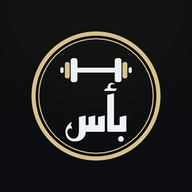
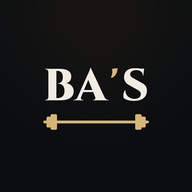
الاسم BA'S بخط Cinzel + أيقونة جديدة بدون عربي (v72)
Claude-Session: https://claude.ai/code/session_01WkkKEZYvaXpMPRjZNHy4t8

Changed region(s): [[0.1562, 0.1562, 0.8438, 0.8438]]

diff --git a/index.html b/index.html
@@ -8,7 +8,7 @@
 <link rel="manifest" href="manifest.webmanifest">
 <link rel="icon" href="icon-192.png">
 <link rel="apple-touch-icon" href="icon-192.png">
-<title>بأس</title>
+<title>BA'S</title>
 <style>
 :root{--scb:#000;--sci:#0c0c0c;--font:system-ui,"Noto Naskh Arabic","Segoe UI",Tahoma,sans-serif;--fnum:inherit;--rad:14px;--radb:11px;--radp:99px;--bw:1px;--sh:none;--ttl:none;--ls:0;--bg:#0e0e0f;--s1:#17171a;--s2:#202024;--bd:#2d2d33;--tx:#ece8e1;--mu:#968f85;--ac:#c38d4f;--ac2:#e2b37c;--ok:#7bb072;--mid:#d6b05a;--bad:#d06c57;--onac:#160e05;--hero:#1d1810;--tx2:#cfc6b8;--ph:#55504a;--okbd:#3b5a37;--okbg:#1c2a1a;--midbd:#5c4d2a;--midbg:#2b2616;--badbg:#2a1a15;--acbd:#4a3a28;--acbg:#33261a;--oktx:#a6d69c;--midtx:#e5c97f;--badtx:#f0b3a3}
 *{box-sizing:border-box;-webkit-tap-highlight-color:transparent}
@@ -422,8 +422,8 @@ html[data-th=granite] #sess .ex.wn{background:linear-gradient(180deg,#221e14,#1a
 #sess .meta2 .inp{min-height:44px}
 #sess .exname{min-height:44px;display:flex;align-items:center}
 #sess .scell .inp::placeholder{color:var(--mu);opacity:.55;font-weight:500;font-size:17px}
-/* v69: الاسم بأس */
-html .brand .wm b.bas,html[data-th] .brand .wm b.bas{font-size:21px;font-weight:800;letter-spacing:0;line-height:1;color:var(--ac2);text-transform:none}
+/* v72: الاسم BA'S بخط Cinzel كمسارات SVG */
+.brand .wmk{height:17px;width:auto;display:block;flex:none;fill:var(--tx)}.brand .wmk .ap{fill:var(--ac2)}
 a.brand,a.brand:visited{color:inherit;text-decoration:none;-webkit-tap-highlight-color:transparent}
 
 /* ===== v57: بساطة — دايرة واحدة وتمرين واحد في الشاشة ===== */
@@ -612,11 +612,11 @@ html[data-th=granite] .pst.full{color:var(--gd)}
 
 <script>
 'use strict';
-const VER='71';
+const VER='72';
 const KEY='gymlog.v1';
 /* ================= اللغة / Language ================= */
 const I18N={
-en:{brand:'<svg class="lg" viewBox="0 0 34 22" fill="none" stroke="currentColor" stroke-width="2" stroke-linecap="round" aria-hidden="true"><path d="M11 11h12"/><rect x="5" y="5" width="4" height="12" rx="1.2" fill="currentColor"/><rect x="25" y="5" width="4" height="12" rx="1.2" fill="currentColor"/><path d="M2 8.5v5M32 8.5v5"/></svg><span class="wm"><b class="bas">بأس</b></span>',title:'بأس',langBtn:'عربي',tabs:['Home','Log','Program','Exercises','File'],update:'Update available — tap',
+en:{brand:'<svg class="lg" viewBox="0 0 34 22" fill="none" stroke="currentColor" stroke-width="2" stroke-linecap="round" aria-hidden="true"><path d="M11 11h12"/><rect x="5" y="5" width="4" height="12" rx="1.2" fill="currentColor"/><rect x="25" y="5" width="4" height="12" rx="1.2" fill="currentColor"/><path d="M2 8.5v5M32 8.5v5"/></svg><svg class="wmk" viewBox="0 0 2423 700" role="img" aria-label="BA S"><path d="M113 627V73Q112 47 94 28Q75 10 49 10H36V0H355Q429 0 489 16Q549 32 585 70Q621 107 621 173Q621 219 602 251Q584 283 556 300Q527 317 494 319Q544 322 584 345Q625 368 650 408Q674 448 674 502Q674 569 636 613Q598 657 531 678Q464 700 376 700H36V690H49Q75 690 94 672Q112 653 113 627ZM290 46V652H320Q362 652 396 636Q430 619 450 583Q470 547 470 489Q470 449 460 419Q449 389 430 369Q410 349 384 340Q357 330 324 330V321Q348 321 368 313Q388 305 402 288Q417 272 425 246Q433 221 433 187Q433 135 418 104Q402 73 374 60Q347 46 311 46Z"/><path d="M1116 -22 1426 638Q1440 664 1461 675Q1485 690 1508 690H1516V700H1167V690H1176Q1196 690 1212 674Q1227 657 1214 627H1215L1171 519H946L900 627H901Q892 647 897 661Q902 675 914 682Q927 690 939 690H948V700H729V690H738Q761 690 786 675Q804 665 817 643L1053 118Q1058 111 1066 92Q1073 74 1082 52Q1092 30 1099 10Q1106 -10 1107 -22ZM1061 249 965 473H1152Z"/><path class="ap" d="M1598 0 1718 -14Q1719 5 1714 36Q1708 67 1694 100Q1679 132 1653 160Q1627 187 1587 200L1572 195Q1588 151 1595 121Q1602 91 1602 64Q1603 36 1598 0Z"/><path d="M2097 -14Q2117 -14 2150 -12Q2184 -10 2220 -7Q2232 -5 2244 -4H2320L2317 17L2302 151H2292Q2292 98 2252 65Q2211 32 2142 32Q2082 32 2046 58Q2011 83 2009 122Q2006 155 2030 176Q2054 197 2088 215L2277 321Q2328 346 2356 391Q2383 436 2379 500Q2374 603 2298 658Q2221 714 2090 714Q2039 714 1995 706Q1951 698 1918 684Q1885 669 1866 651Q1857 628 1858 594Q1860 560 1870 526Q1880 493 1894 472H1903Q1900 524 1924 569Q1947 614 1994 641Q2041 668 2106 668Q2175 667 2210 636Q2246 605 2246 563Q2246 531 2224 506Q2202 480 2153 456L1984 360Q1923 329 1896 278Q1868 226 1875 163Q1880 108 1908 68Q1936 29 1984 8Q2032 -14 2097 -14Z"/></svg>',title:"BA'S",langBtn:'عربي',tabs:['Home','Log','Program','Exercises','File'],update:'Update available — tap',
  next:'Next session',coreL:'Core',start:'Start',draftOpen:'Unsaved session in progress',draftEdit:'Editing a session',resume:'Continue',
  last7:'Last 7 days',sessions:'sessions',lastSess:'Last session',min3:'Weekly minimum is 3 sessions.',
  bkNone:'No backup yet.',bkAgo:n=>`Last backup was ${n} day(s) ago.`,bkWarn:' If Chrome data is cleared, the log goes with it.',bkNowBtn:'Save a backup file now',
@@ -653,7 +653,7 @@ en:{brand:'<svg class="lg" viewBox="0 0 34 22" fill="none" stroke="currentColor"
  aiTarget:'Target',aiWeight:'Weight',aiSets:'Sets',aiForm:'Form',aiClean:'clean (no momentum, full control)',aiNotClean:'not marked clean',
  aiLast:'Previous',aiStatus:'Status',aiNote:'Note',aiNotDone:'Not done',aiCoreTag:'[core]',bw:'bodyweight',
  st2:{q1:'qualified 1 of 2',up:'increase earned',stuck:n=>`${n} sessions at this weight without an increase`},
- mdTitle:'بأس — Backup',mdExported:'Exported',mdSessions:'Sessions',mdProgram:'Program',mdLog:'Log (newest first)',
+ mdTitle:"BA'S — Backup",mdExported:'Exported',mdSessions:'Sessions',mdProgram:'Program',mdLog:'Log (newest first)',
  mdCols:['#','Exercise','Weight','Target','Core','Notes'],mdSCols:['Exercise','Weight','Sets','Clean','Note'],mdData:'Data used by “Restore” in the app — do not edit',yes:'✓',
  csvH:['Date','Cycle','Day','Exercise','Weight','Sets','Set count','Total reps','Clean','Core','Note'],coreLine:'Core',themeT:'Theme',histNote:n=>`${n} past session(s) from your earlier log were added.`,todayL:'Today',otherDay:'Start a different day',newInstead:'Start a new session instead',weekOf:n=>`${n} session(s) in the last 7 days · goal 3`,
  syncT:'Encrypted auto-backup (GitHub)',syncHint:'After every session the whole log is encrypted on this phone and uploaded to your repo. Without the passphrase the file is unreadable.',
@@ -668,7 +668,7 @@ en:{brand:'<svg class="lg" viewBox="0 0 34 22" fill="none" stroke="currentColor"
  syncPub:'Your encrypted backups are going to a PUBLIC repo. Create a private repo, then tap Turn off and enable the backup again with the new repo name.',undoRestore:'Undo last restore',confUndoRestore:'Go back to the data you had before the last restore?',undoDone:'Back to your data before the restore ✓',
  restoredSkip:n=>`Restored ✓ (${n} damaged session(s) skipped)`,syncAfterRestore:'Turn on encrypted auto-backup on this phone with the same repo and passphrase?'
 },
-ar:{brand:'<svg class="lg" viewBox="0 0 34 22" fill="none" stroke="currentColor" stroke-width="2" stroke-linecap="round" aria-hidden="true"><path d="M11 11h12"/><rect x="5" y="5" width="4" height="12" rx="1.2" fill="currentColor"/><rect x="25" y="5" width="4" height="12" rx="1.2" fill="currentColor"/><path d="M2 8.5v5M32 8.5v5"/></svg><span class="wm"><b class="bas">بأس</b></span>',title:'بأس',langBtn:'EN',tabs:['الرئيسية','السجل','البرنامج','التمارين','الملف'],update:'فيه تحديث — اضغط',
+ar:{brand:'<svg class="lg" viewBox="0 0 34 22" fill="none" stroke="currentColor" stroke-width="2" stroke-linecap="round" aria-hidden="true"><path d="M11 11h12"/><rect x="5" y="5" width="4" height="12" rx="1.2" fill="currentColor"/><rect x="25" y="5" width="4" height="12" rx="1.2" fill="currentColor"/><path d="M2 8.5v5M32 8.5v5"/></svg><svg class="wmk" viewBox="0 0 2423 700" role="img" aria-label="BA S"><path d="M113 627V73Q112 47 94 28Q75 10 49 10H36V0H355Q429 0 489 16Q549 32 585 70Q621 107 621 173Q621 219 602 251Q584 283 556 300Q527 317 494 319Q544 322 584 345Q625 368 650 408Q674 448 674 502Q674 569 636 613Q598 657 531 678Q464 700 376 700H36V690H49Q75 690 94 672Q112 653 113 627ZM290 46V652H320Q362 652 396 636Q430 619 450 583Q470 547 470 489Q470 449 460 419Q449 389 430 369Q410 349 384 340Q357 330 324 330V321Q348 321 368 313Q388 305 402 288Q417 272 425 246Q433 221 433 187Q433 135 418 104Q402 73 374 60Q347 46 311 46Z"/><path d="M1116 -22 1426 638Q1440 664 1461 675Q1485 690 1508 690H1516V700H1167V690H1176Q1196 690 1212 674Q1227 657 1214 627H1215L1171 519H946L900 627H901Q892 647 897 661Q902 675 914 682Q927 690 939 690H948V700H729V690H738Q761 690 786 675Q804 665 817 643L1053 118Q1058 111 1066 92Q1073 74 1082 52Q1092 30 1099 10Q1106 -10 1107 -22ZM1061 249 965 473H1152Z"/><path class="ap" d="M1598 0 1718 -14Q1719 5 1714 36Q1708 67 1694 100Q1679 132 1653 160Q1627 187 1587 200L1572 195Q1588 151 1595 121Q1602 91 1602 64Q1603 36 1598 0Z"/><path d="M2097 -14Q2117 -14 2150 -12Q2184 -10 2220 -7Q2232 -5 2244 -4H2320L2317 17L2302 151H2292Q2292 98 2252 65Q2211 32 2142 32Q2082 32 2046 58Q2011 83 2009 122Q2006 155 2030 176Q2054 197 2088 215L2277 321Q2328 346 2356 391Q2383 436 2379 500Q2374 603 2298 658Q2221 714 2090 714Q2039 714 1995 706Q1951 698 1918 684Q1885 669 1866 651Q1857 628 1858 594Q1860 560 1870 526Q1880 493 1894 472H1903Q1900 524 1924 569Q1947 614 1994 641Q2041 668 2106 668Q2175 667 2210 636Q2246 605 2246 563Q2246 531 2224 506Q2202 480 2153 456L1984 360Q1923 329 1896 278Q1868 226 1875 163Q1880 108 1908 68Q1936 29 1984 8Q2032 -14 2097 -14Z"/></svg>',title:"BA'S",langBtn:'EN',tabs:['الرئيسية','السجل','البرنامج','التمارين','الملف'],update:'فيه تحديث — اضغط',
  next:'الجلسة الجاية',coreL:'الأساسي',start:'ابدأ',draftOpen:'جلسة مفتوحة لسه ماتحفظتش',draftEdit:'تعديل جلسة',resume:'كمّل',
  last7:'آخر ٧ أيام',sessions:'جلسات',lastSess:'آخر جلسة',min3:'الحد الأدنى في الأسبوع ٣ جلسات.',
  bkNone:'لسه ماعملتش ولا نسخة احتياطية.',bkAgo:n=>`آخر نسخة احتياطية من ${n} يوم.`,bkWarn:' لو بيانات Chrome اتمسحت، السجل هيضيع معاها.',bkNowBtn:'احفظ نسخة في ملف دلوقتي',
@@ -705,7 +705,7 @@ ar:{brand:'<svg class="lg" viewBox="0 0 34 22" fill="none" stroke="currentColor"
  aiTarget:'الهدف',aiWeight:'الوزن',aiSets:'المجموعات',aiForm:'الأداء',aiClean:'نضيف (من غير مرجحة وبتحكّم كامل)',aiNotClean:'مش متعلّم نضيف',
  aiLast:'المرة اللي فاتت',aiStatus:'الحالة',aiNote:'ملاحظة',aiNotDone:'ماتلعبش',aiCoreTag:'[أساسي]',bw:'وزن الجسم',
  st2:{q1:'مؤهل ١ من ٢',up:'استحق زيادة',stuck:n=>`${n} جلسات على نفس الوزن من غير زيادة`},
- mdTitle:'بأس — نسخة احتياطية',mdExported:'اتعملت',mdSessions:'الجلسات',mdProgram:'البرنامج',mdLog:'السجل (الأحدث الأول)',
+ mdTitle:"BA'S — نسخة احتياطية",mdExported:'اتعملت',mdSessions:'الجلسات',mdProgram:'البرنامج',mdLog:'السجل (الأحدث الأول)',
  mdCols:['#','التمرين','الوزن','الهدف','أساسي','تعليمات'],mdSCols:['التمرين','الوزن','المجموعات','نضيف','ملاحظة'],mdData:'بيانات بيستخدمها زرار «استرجاع» في التطبيق — ماتعدّلهاش',yes:'✓',
  csvH:['التاريخ','Cycle','اليوم','التمرين','الوزن','المجموعات','عدد المجموعات','إجمالي العدّات','نضيف','أساسي','ملاحظة'],coreLine:'الأساسي',themeT:'الشكل',histNote:n=>`اتضاف ${n} جلسة من سجلك القديم.`,todayL:'النهارده',otherDay:'ابدأ يوم تاني',newInstead:'ابدأ جلسة جديدة بدلها',weekOf:n=>`${n} جلسة في آخر ٧ أيام · الهدف ٣`,
  syncT:'نسخة أوتوماتيك مشفّرة (GitHub)',syncHint:'بعد كل جلسة السجل كله بيتشفّر على الموبايل وبيترفع للريبو بتاعك. من غير العبارة السرية الملف مش بيتفتح.',

diff --git a/README.md b/README.md
@@ -1,3 +1,3 @@
-# بأس — سجل التمرين
+# BA'S
 
 **افتح التطبيق:** https://notimetocry29-dot.github.io/Gymlog-app/
